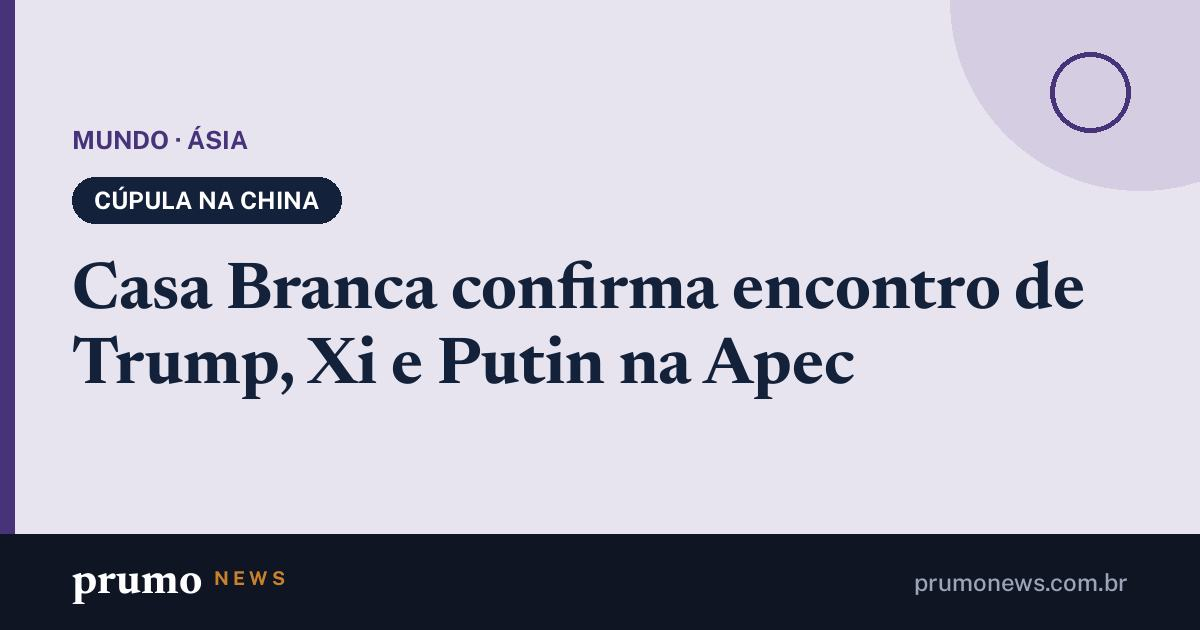
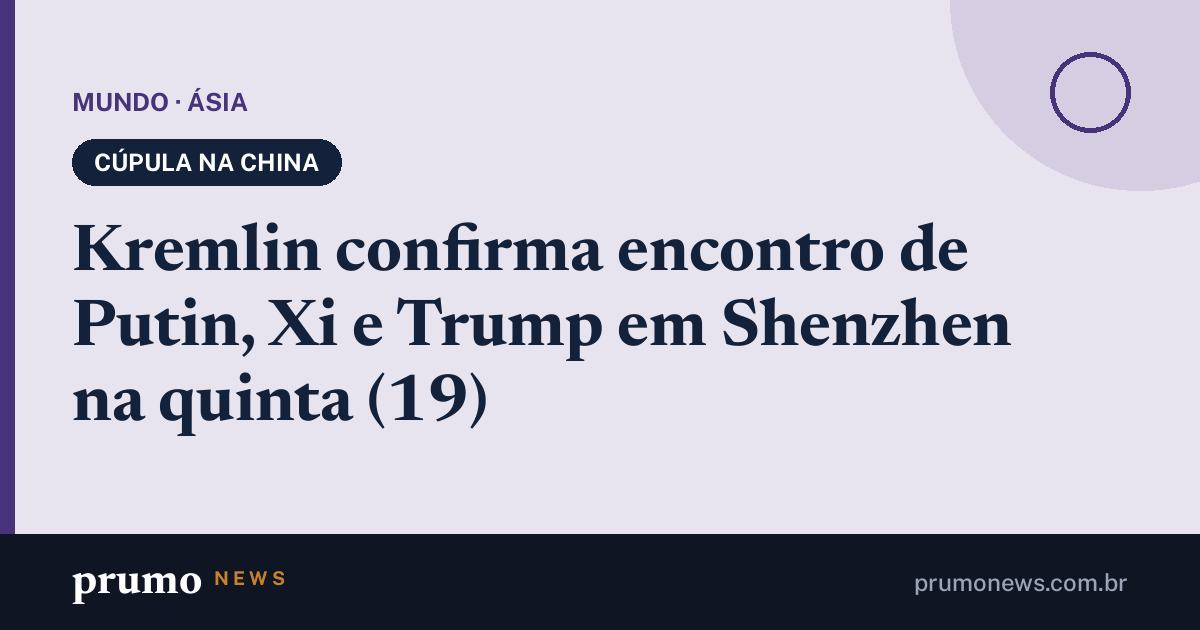
Páginas de compartilhamento 17/11 15h50

Changed region(s): [[0.0617, 0.2111, 0.925, 0.6937], [0.0617, 0.1508, 0.2158, 0.181]]

diff --git a/m/eua-trump-xi-putin-apec-china.html b/m/eua-trump-xi-putin-apec-china.html
@@ -3,16 +3,16 @@
 <head>
 <meta charset="utf-8">
 <meta name="viewport" content="width=device-width, initial-scale=1">
-<title>Casa Branca confirma encontro de Trump, Xi e Putin na Apec · Prumo News</title>
+<title>Kremlin confirma encontro de Putin, Xi e Trump em Shenzhen na quinta (19) · Prumo News</title>
 <meta name="description" content="A Casa Branca põe na pauta a proliferação nuclear, o Irã e o comércio; o encontro é à margem da Apec, em Shenzhen, e a Ucrânia deve ficar de fora.">
-<link rel="canonical" href="https://prumonews.com.br/m/casa-branca-confirma-encontro-de-trump-xi-e-putin-na-apec.html">
+<link rel="canonical" href="https://prumonews.com.br/m/kremlin-confirma-encontro-de-putin-xi-e-trump-em-shenzhen-na-quinta-19.html">
 <meta property="og:type" content="article">
 <meta property="og:site_name" content="Prumo News">
 <meta property="og:locale" content="pt_BR">
-<meta property="og:title" content="Casa Branca confirma encontro de Trump, Xi e Putin na Apec">
+<meta property="og:title" content="Kremlin confirma encontro de Putin, Xi e Trump em Shenzhen na quinta (19)">
 <meta property="og:description" content="A Casa Branca põe na pauta a proliferação nuclear, o Irã e o comércio; o encontro é à margem da Apec, em Shenzhen, e a Ucrânia deve ficar de fora.">
-<meta property="og:url" content="https://prumonews.com.br/m/casa-branca-confirma-encontro-de-trump-xi-e-putin-na-apec.html">
-<meta property="og:image" content="https://prumonews.com.br/m/og/eua-trump-xi-putin-apec-china.jpg?v=e55751b8ad">
+<meta property="og:url" content="https://prumonews.com.br/m/kremlin-confirma-encontro-de-putin-xi-e-trump-em-shenzhen-na-quinta-19.html">
+<meta property="og:image" content="https://prumonews.com.br/m/og/eua-trump-xi-putin-apec-china.jpg?v=e1b494cf77">
 <meta property="og:image:width" content="1200">
 <meta property="og:image:height" content="630">
 <meta name="twitter:card" content="summary_large_image">
@@ -20,5 +20,5 @@
 <script>location.replace("/#m=eua-trump-xi-putin-apec-china")</script>
 <style>body{margin:0;font:16px/1.5 system-ui,sans-serif;background:#0f1522;color:#e8ecf2;display:grid;place-items:center;min-height:100vh;padding:24px;box-sizing:border-box;text-align:center}a{color:#e6b673}</style>
 </head>
-<body><p><a href="/#m=eua-trump-xi-putin-apec-china">Casa Branca confirma encontro de Trump, Xi e Putin na Apec</a><br>Abrindo no Prumo News…</p></body>
+<body><p><a href="/#m=eua-trump-xi-putin-apec-china">Kremlin confirma encontro de Putin, Xi e Trump em Shenzhen na quinta (19)</a><br>Abrindo no Prumo News…</p></body>
 </html>

diff --git a/m/kremlin-confirma-encontro-de-putin-xi-e-trump-em-shenzhen-na-quinta-19.html b/m/kremlin-confirma-encontro-de-putin-xi-e-trump-em-shenzhen-na-quinta-19.html
@@ -1,0 +1,24 @@
+<!doctype html>
+<html lang="pt-BR">
+<head>
+<meta charset="utf-8">
+<meta name="viewport" content="width=device-width, initial-scale=1">
+<title>Kremlin confirma encontro de Putin, Xi e Trump em Shenzhen na quinta (19) · Prumo News</title>
+<meta name="description" content="A Casa Branca põe na pauta a proliferação nuclear, o Irã e o comércio; o encontro é à margem da Apec, em Shenzhen, e a Ucrânia deve ficar de fora.">
+<link rel="canonical" href="https://prumonews.com.br/m/kremlin-confirma-encontro-de-putin-xi-e-trump-em-shenzhen-na-quinta-19.html">
+<meta property="og:type" content="article">
+<meta property="og:site_name" content="Prumo News">
+<meta property="og:locale" content="pt_BR">
+<meta property="og:title" content="Kremlin confirma encontro de Putin, Xi e Trump em Shenzhen na quinta (19)">
+<meta property="og:description" content="A Casa Branca põe na pauta a proliferação nuclear, o Irã e o comércio; o encontro é à margem da Apec, em Shenzhen, e a Ucrânia deve ficar de fora.">
+<meta property="og:url" content="https://prumonews.com.br/m/kremlin-confirma-encontro-de-putin-xi-e-trump-em-shenzhen-na-quinta-19.html">
+<meta property="og:image" content="https://prumonews.com.br/m/og/eua-trump-xi-putin-apec-china.jpg?v=e1b494cf77">
+<meta property="og:image:width" content="1200">
+<meta property="og:image:height" content="630">
+<meta name="twitter:card" content="summary_large_image">
+<meta name="theme-color" content="#0f1522">
+<script>location.replace("/#m=eua-trump-xi-putin-apec-china")</script>
+<style>body{margin:0;font:16px/1.5 system-ui,sans-serif;background:#0f1522;color:#e8ecf2;display:grid;place-items:center;min-height:100vh;padding:24px;box-sizing:border-box;text-align:center}a{color:#e6b673}</style>
+</head>
+<body><p><a href="/#m=eua-trump-xi-putin-apec-china">Kremlin confirma encontro de Putin, Xi e Trump em Shenzhen na quinta (19)</a><br>Abrindo no Prumo News…</p></body>
+</html>
